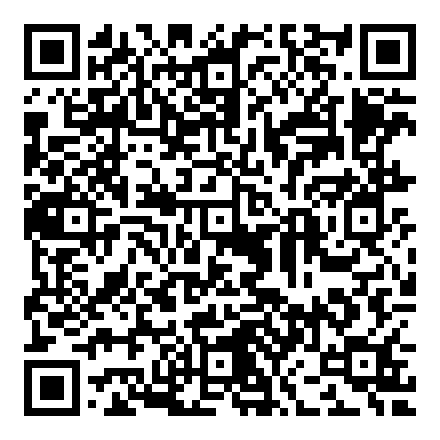
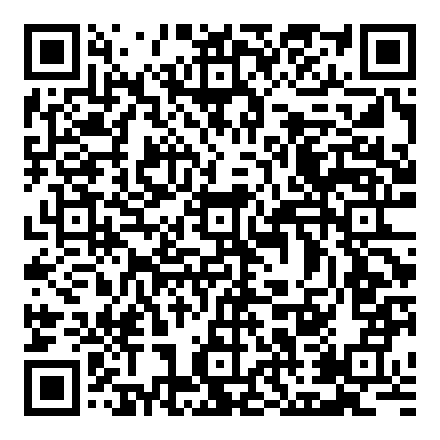
自动提交 2025-06-14 09:14:05

diff --git a/index.html b/index.html
@@ -6,12 +6,12 @@
     <title>欢迎加入</title>
     <style>
         body {
-            display: flex;
+            /* display: flex; */
             flex-direction: column; /* 使内容垂直排列 */
             justify-content: center;
             align-items: center;
             height: 100vh;
-            margin: 0;
+            margin: 20 5;
             background-color: #f0f8ff; /* 设置背景颜色 */
             font-family: Arial, sans-serif; /* 设置字体 */
         }
@@ -39,23 +39,16 @@
             width: 80%; /* 设置容器宽度 */
         }
     </style>
-    <script>
-        var imageIndex = parseInt(localStorage.getItem("imageIndex")) || 1;
-        var imageCount = 1; // 修改为实际图片数量
-
-        function changeImage() {
-            var img = document.getElementById("slideshow");
-            img.src = imageIndex + ".png";
-            imageIndex = (imageIndex % imageCount) + 1;
-            localStorage.setItem("imageIndex", imageIndex);
-        }
-    </script>
+    
 </head>
 <body onload="changeImage()">
     <div class="container">
-        <h3>欢迎扫码入群</h3>
-        <hr>
-        <img id="slideshow" src="1.png">
+        <h3>高考志愿交流群</h3>
+       
+        <img  src="2.png">
+         <hr>
+         <h3>羊毛福利群</h3>
+         <img src="1.png" alt="">
     </div>
 </body>
 </html>
